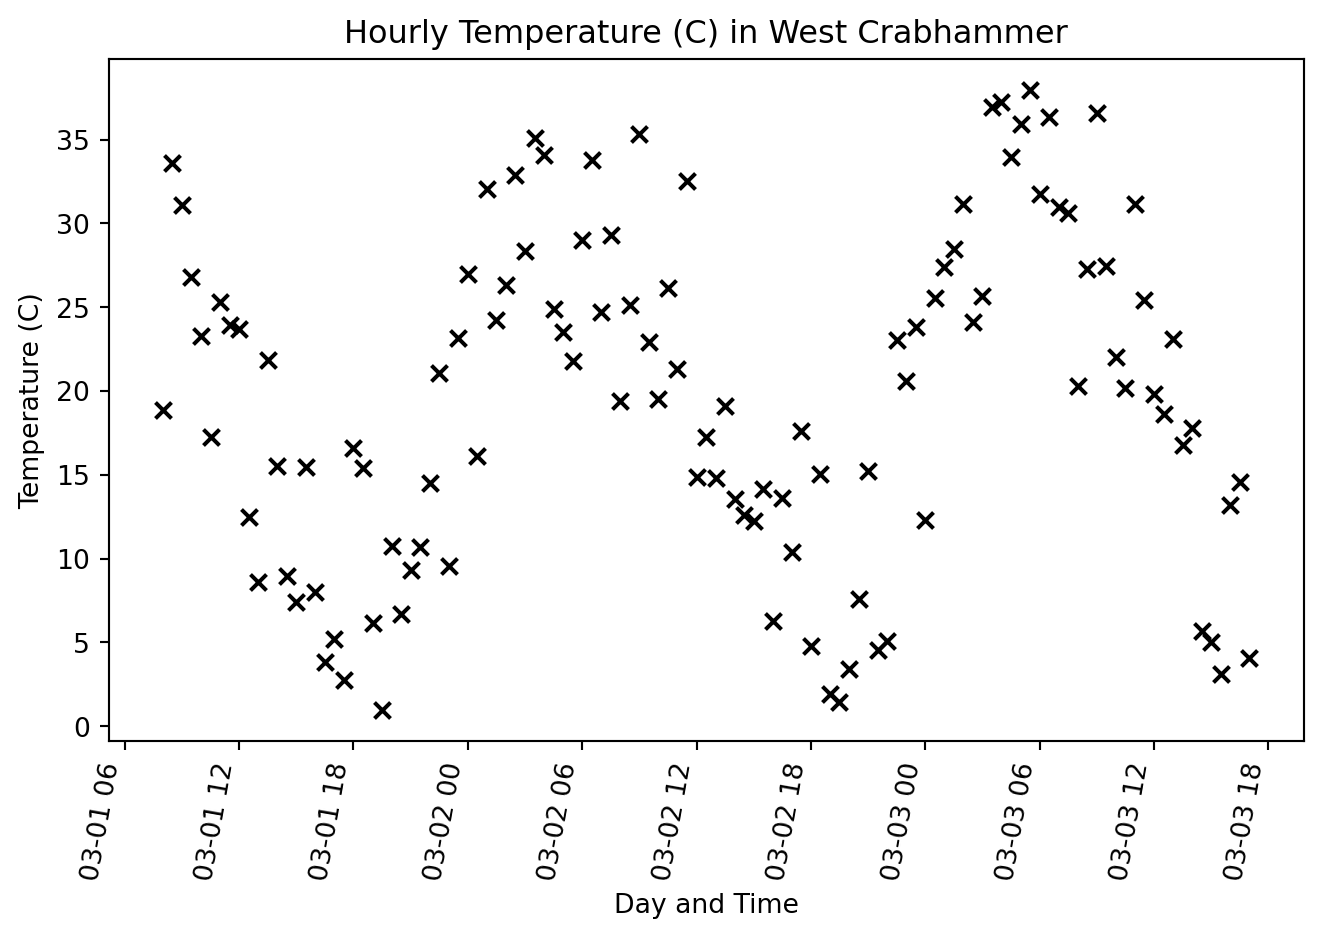
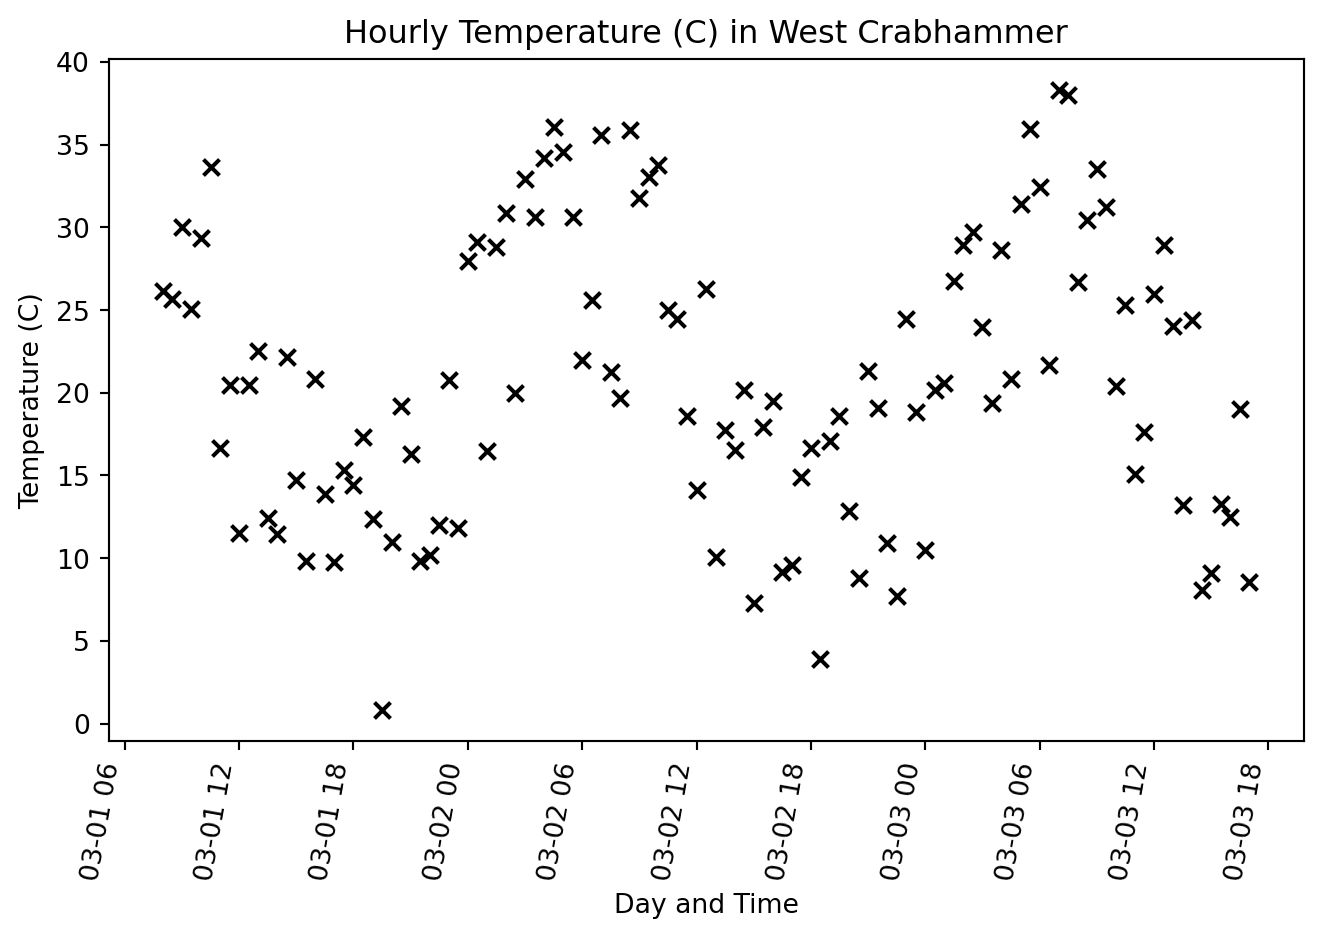
slideshow work

diff --git a/docs/python_geospatial_basics.html b/docs/python_geospatial_basics.html
@@ -155,8 +155,8 @@ mkdir geog441
 cd geog441
 cp ~/Downloads/environment.yml .
 conda env create -f environment.yml</code></pre>
-<hr>
-<p><strong>FYI:</strong> What is this <em>environment.yml</em> thing?</p>
+<p class="noteBoxes type2">
+</p><p>What is this <em>environment.yml</em> thing?</p>
 <pre class="{yml}"><code>name: geo
 channels:
   - defaults
@@ -166,7 +166,7 @@ dependencies:
   - rioxarray
   - tabulate
   - tqdm</code></pre>
-<hr>
+<p></p>
 <p>Using <code>conda env create</code> with the environment yaml creates a new conda environment named <em>geo</em> with the dependencies installed. Next we will activate the <em>geo</em> environment.</p>
 <pre class="{bash}"><code>conda activate geo</code></pre>
 <p>Notice that the conda environment shown after the prompt has changed from <code>(base)</code> to <code>(geo)</code>.</p>
@@ -227,7 +227,7 @@ dependencies:
 <section id="basic-numbers" class="level2">
 <h2 class="anchored" data-anchor-id="basic-numbers">Basic Numbers</h2>
 <p>Floats and Ints don’t do anything all that surprising</p>
-<div id="eb2f3d09" class="cell" data-execution_count="1">
+<div id="7ecb869f" class="cell" data-execution_count="1">
 <div class="sourceCode cell-code" id="cb5"><pre class="sourceCode python code-with-copy"><code class="sourceCode python"><span id="cb5-1"><a href="#cb5-1" aria-hidden="true" tabindex="-1"></a>a <span class="op">=</span> <span class="dv">2</span> <span class="op">+</span> <span class="dv">2</span></span>
 <span id="cb5-2"><a href="#cb5-2" aria-hidden="true" tabindex="-1"></a>b <span class="op">=</span> <span class="fl">2.0</span> <span class="op">+</span> <span class="fl">2.0</span></span>
 <span id="cb5-3"><a href="#cb5-3" aria-hidden="true" tabindex="-1"></a>c <span class="op">=</span> a <span class="op">+</span> b</span>
@@ -254,7 +254,7 @@ and 5 % 4 is 1</code></pre>
 <section id="sequences" class="level2">
 <h2 class="anchored" data-anchor-id="sequences">Sequences</h2>
 <p>Lists, tuples, and strings ae all sequences</p>
-<div id="a74836c3" class="cell" data-execution_count="2">
+<div id="6823380c" class="cell" data-execution_count="2">
 <div class="sourceCode cell-code" id="cb7"><pre class="sourceCode python code-with-copy"><code class="sourceCode python"><span id="cb7-1"><a href="#cb7-1" aria-hidden="true" tabindex="-1"></a><span class="co"># a list</span></span>
 <span id="cb7-2"><a href="#cb7-2" aria-hidden="true" tabindex="-1"></a>a_list <span class="op">=</span> [<span class="dv">1</span>, <span class="dv">2</span>, <span class="dv">3</span>, <span class="dv">4</span>, <span class="dv">5</span>, <span class="dv">6</span>, <span class="dv">7</span>, <span class="dv">8</span>, <span class="dv">9</span>]</span>
 <span id="cb7-3"><a href="#cb7-3" aria-hidden="true" tabindex="-1"></a></span>
@@ -297,7 +297,7 @@ neushorn?</code></pre>
 <a href="https://labex.io/tutorials/python-how-to-manipulate-list-sequences-in-python-419858">Sequences tutorial</a><br>
 <a href="https://www.youtube.com/watch?v=n3KMrwmq_94">Sequence tutorial as video</a></p>
 <p>THe key difference is that tuples are immutable.</p>
-<div id="4a0b9f65" class="cell" data-execution_count="3">
+<div id="2fb4d1ac" class="cell" data-execution_count="3">
 <div class="sourceCode cell-code" id="cb9"><pre class="sourceCode python code-with-copy"><code class="sourceCode python"><span id="cb9-1"><a href="#cb9-1" aria-hidden="true" tabindex="-1"></a>a_list[<span class="dv">1</span>] <span class="op">=</span> <span class="dv">256</span></span>
 <span id="cb9-2"><a href="#cb9-2" aria-hidden="true" tabindex="-1"></a></span>
 <span id="cb9-3"><a href="#cb9-3" aria-hidden="true" tabindex="-1"></a>a_tup[<span class="dv">1</span>] <span class="op">=</span> <span class="dv">256</span></span></code><button title="Copy to Clipboard" class="code-copy-button"><i class="bi"></i></button></pre></div>
@@ -316,7 +316,7 @@ Cell <span class="ansi-green-fg">In[3], line 3</span>
 </section>
 <section id="dictionaries" class="level2">
 <h2 class="anchored" data-anchor-id="dictionaries">Dictionaries</h2>
-<div id="81b3fb5c" class="cell" data-execution_count="4">
+<div id="f758cf48" class="cell" data-execution_count="4">
 <div class="sourceCode cell-code" id="cb10"><pre class="sourceCode python code-with-copy"><code class="sourceCode python"><span id="cb10-1"><a href="#cb10-1" aria-hidden="true" tabindex="-1"></a>pets <span class="op">=</span> {<span class="st">'honden'</span>: <span class="dv">26</span>, <span class="st">'katten'</span>: <span class="dv">100</span>}</span>
 <span id="cb10-2"><a href="#cb10-2" aria-hidden="true" tabindex="-1"></a></span>
 <span id="cb10-3"><a href="#cb10-3" aria-hidden="true" tabindex="-1"></a><span class="cf">for</span> key, val <span class="kw">in</span> pets.items():</span>
@@ -333,7 +333,7 @@ Cell <span class="ansi-green-fg">In[3], line 3</span>
 </section>
 <section id="iterating" class="level2">
 <h2 class="anchored" data-anchor-id="iterating">Iterating</h2>
-<div id="6fdb6e7c" class="cell" data-execution_count="5">
+<div id="99893390" class="cell" data-execution_count="5">
 <div class="sourceCode cell-code" id="cb12"><pre class="sourceCode python code-with-copy"><code class="sourceCode python"><span id="cb12-1"><a href="#cb12-1" aria-hidden="true" tabindex="-1"></a>a <span class="op">=</span> [<span class="dv">1</span>, <span class="dv">2</span>, <span class="dv">3</span>, <span class="dv">4</span>, <span class="dv">5</span>, <span class="dv">6</span>, <span class="dv">7</span>, <span class="dv">8</span>, <span class="dv">9</span>]</span>
 <span id="cb12-2"><a href="#cb12-2" aria-hidden="true" tabindex="-1"></a></span>
 <span id="cb12-3"><a href="#cb12-3" aria-hidden="true" tabindex="-1"></a><span class="co"># use a loop to append squared values to new lists</span></span>
@@ -362,7 +362,7 @@ is the same as
 <li>can return something</li>
 <li>have there own scope</li>
 </ul>
-<div id="6e9ad4f0" class="cell" data-execution_count="6">
+<div id="dd7359bc" class="cell" data-execution_count="6">
 <div class="sourceCode cell-code" id="cb14"><pre class="sourceCode python code-with-copy"><code class="sourceCode python"><span id="cb14-1"><a href="#cb14-1" aria-hidden="true" tabindex="-1"></a><span class="im">import</span> numpy <span class="im">as</span> np</span>
 <span id="cb14-2"><a href="#cb14-2" aria-hidden="true" tabindex="-1"></a></span>
 <span id="cb14-3"><a href="#cb14-3" aria-hidden="true" tabindex="-1"></a><span class="kw">def</span> root_mean_square(list_of_numbers):</span>
@@ -382,7 +382,7 @@ is the same as
 </div>
 </div>
 <p>They do nat have to have arguments or return stuff.</p>
-<div id="d61f532e" class="cell" data-execution_count="7">
+<div id="ae19f839" class="cell" data-execution_count="7">
 <div class="sourceCode cell-code" id="cb16"><pre class="sourceCode python code-with-copy"><code class="sourceCode python"><span id="cb16-1"><a href="#cb16-1" aria-hidden="true" tabindex="-1"></a><span class="kw">def</span> complain():</span>
 <span id="cb16-2"><a href="#cb16-2" aria-hidden="true" tabindex="-1"></a>  <span class="bu">print</span>(<span class="st">'This is boring!</span><span class="ch">\n</span><span class="st">when will we get to the GIS stuff.</span><span class="ch">\n\U0001F620\U0001F620\U0001F620\n\n</span><span class="st">Soon! Bear with me.'</span>)</span>
 <span id="cb16-3"><a href="#cb16-3" aria-hidden="true" tabindex="-1"></a></span>
@@ -399,7 +399,7 @@ Soon! Bear with me.</code></pre>
 <section id="pandas-dataframe" class="level2 smaller scrollable">
 <h2 class="smaller scrollable anchored" data-anchor-id="pandas-dataframe">Pandas DataFrame</h2>
 <p>DataFrames hold tabular data</p>
-<div id="22a49d38" class="cell" data-output-location="fragment" data-execution_count="8">
+<div id="440df743" class="cell" data-output-location="fragment" data-execution_count="8">
 <div class="sourceCode cell-code" id="cb18"><pre class="sourceCode python code-with-copy"><code class="sourceCode python"><span id="cb18-1"><a href="#cb18-1" aria-hidden="true" tabindex="-1"></a><span class="im">from</span> datetime <span class="im">import</span> datetime, timedelta</span>
 <span id="cb18-2"><a href="#cb18-2" aria-hidden="true" tabindex="-1"></a><span class="im">from</span> random <span class="im">import</span> uniform</span>
 <span id="cb18-3"><a href="#cb18-3" aria-hidden="true" tabindex="-1"></a><span class="im">import</span> matplotlib.pyplot <span class="im">as</span> plt</span>
@@ -448,27 +448,27 @@ Soon! Bear with me.</code></pre>
 <tr class="odd">
 <td data-quarto-table-cell-role="th">0</td>
 <td>2025-03-01 08:00:00</td>
-<td>18.841687</td>
+<td>26.132466</td>
 </tr>
 <tr class="even">
 <td data-quarto-table-cell-role="th">1</td>
 <td>2025-03-01 08:30:00</td>
-<td>33.593914</td>
+<td>25.675546</td>
 </tr>
 <tr class="odd">
 <td data-quarto-table-cell-role="th">2</td>
 <td>2025-03-01 09:00:00</td>
-<td>31.102705</td>
+<td>30.005265</td>
 </tr>
 <tr class="even">
 <td data-quarto-table-cell-role="th">3</td>
 <td>2025-03-01 09:30:00</td>
-<td>26.813789</td>
+<td>25.077036</td>
 </tr>
 <tr class="odd">
 <td data-quarto-table-cell-role="th">4</td>
 <td>2025-03-01 10:00:00</td>
-<td>23.302863</td>
+<td>29.348468</td>
 </tr>
 </tbody>
 </table>
@@ -479,7 +479,7 @@ Soon! Bear with me.</code></pre>
 </section>
 <section id="pandas-dataframe-cont." class="level2 scrollable">
 <h2 class="scrollable anchored" data-anchor-id="pandas-dataframe-cont.">Pandas DataFrame Cont.</h2>
-<div id="98264e02" class="cell" data-execution_count="9">
+<div id="955e1368" class="cell" data-execution_count="9">
 <div class="sourceCode cell-code" id="cb19"><pre class="sourceCode python code-with-copy"><code class="sourceCode python"><span id="cb19-1"><a href="#cb19-1" aria-hidden="true" tabindex="-1"></a>fig, ax <span class="op">=</span> plt.subplots()</span>
 <span id="cb19-2"><a href="#cb19-2" aria-hidden="true" tabindex="-1"></a></span>
 <span id="cb19-3"><a href="#cb19-3" aria-hidden="true" tabindex="-1"></a><span class="co"># create the scatter plot</span></span>
@@ -506,15 +506,15 @@ Soon! Bear with me.</code></pre>
 </div>
 </div>
 </div>
-<div id="131ed65d" class="cell" data-execution_count="10">
+<div id="ccbe3a37" class="cell" data-execution_count="10">
 <div class="sourceCode cell-code" id="cb20"><pre class="sourceCode python code-with-copy"><code class="sourceCode python"><span id="cb20-1"><a href="#cb20-1" aria-hidden="true" tabindex="-1"></a><span class="co"># get the mean temperature over the timeseries</span></span>
 <span id="cb20-2"><a href="#cb20-2" aria-hidden="true" tabindex="-1"></a>df[<span class="st">'T (C)'</span>].mean()</span></code><button title="Copy to Clipboard" class="code-copy-button"><i class="bi"></i></button></pre></div>
 <div class="cell-output cell-output-display" data-execution_count="10">
-<pre><code>np.float64(19.619522139711187)</code></pre>
+<pre><code>np.float64(20.913994065543847)</code></pre>
 </div>
 </div>
 <p>When there are no spaces in a column name you can access the column as an attribute of the datafame.</p>
-<div id="c9750191" class="cell" data-execution_count="11">
+<div id="4badc81f" class="cell" data-execution_count="11">
 <div class="sourceCode cell-code" id="cb22"><pre class="sourceCode python code-with-copy"><code class="sourceCode python"><span id="cb22-1"><a href="#cb22-1" aria-hidden="true" tabindex="-1"></a><span class="co"># get the number of time stamps in the date_time column</span></span>
 <span id="cb22-2"><a href="#cb22-2" aria-hidden="true" tabindex="-1"></a>df.date_time.count()</span></code><button title="Copy to Clipboard" class="code-copy-button"><i class="bi"></i></button></pre></div>
 <div class="cell-output cell-output-display" data-execution_count="11">
@@ -576,7 +576,7 @@ Soon! Bear with me.</code></pre>
 </section>
 <section id="polygon" class="level2">
 <h2 class="anchored" data-anchor-id="polygon">Polygon</h2>
-<div id="df5af7f1" class="cell" data-execution_count="12">
+<div id="4172fbc5" class="cell" data-execution_count="12">
 <div class="sourceCode cell-code" id="cb24"><pre class="sourceCode python code-with-copy"><code class="sourceCode python"><span id="cb24-1"><a href="#cb24-1" aria-hidden="true" tabindex="-1"></a><span class="im">from</span> shapely <span class="im">import</span> Polygon</span>
 <span id="cb24-2"><a href="#cb24-2" aria-hidden="true" tabindex="-1"></a></span>
 <span id="cb24-3"><a href="#cb24-3" aria-hidden="true" tabindex="-1"></a>coords <span class="op">=</span> ((<span class="fl">0.</span>, <span class="fl">0.</span>), (<span class="fl">0.</span>, <span class="fl">2.</span>), (<span class="fl">1.</span>, <span class="fl">1.</span>), (<span class="fl">1.</span>, <span class="fl">0.</span>), (<span class="fl">0.</span>, <span class="fl">0.</span>))</span>
@@ -601,7 +601,7 @@ Soon! Bear with me.</code></pre>
 <section id="reading-files" class="level2">
 <h2 class="anchored" data-anchor-id="reading-files">Reading Files</h2>
 <p>Here we will read a geojson using the <code>read_file</code> method.</p>
-<div id="d9009e28" class="cell" data-execution_count="13">
+<div id="002b9e63" class="cell" data-execution_count="13">
 <div class="sourceCode cell-code" id="cb26"><pre class="sourceCode python code-with-copy"><code class="sourceCode python"><span id="cb26-1"><a href="#cb26-1" aria-hidden="true" tabindex="-1"></a><span class="im">from</span> pathlib <span class="im">import</span> Path</span>
 <span id="cb26-2"><a href="#cb26-2" aria-hidden="true" tabindex="-1"></a><span class="im">import</span> geopandas <span class="im">as</span> gpd</span>
 <span id="cb26-3"><a href="#cb26-3" aria-hidden="true" tabindex="-1"></a></span>
